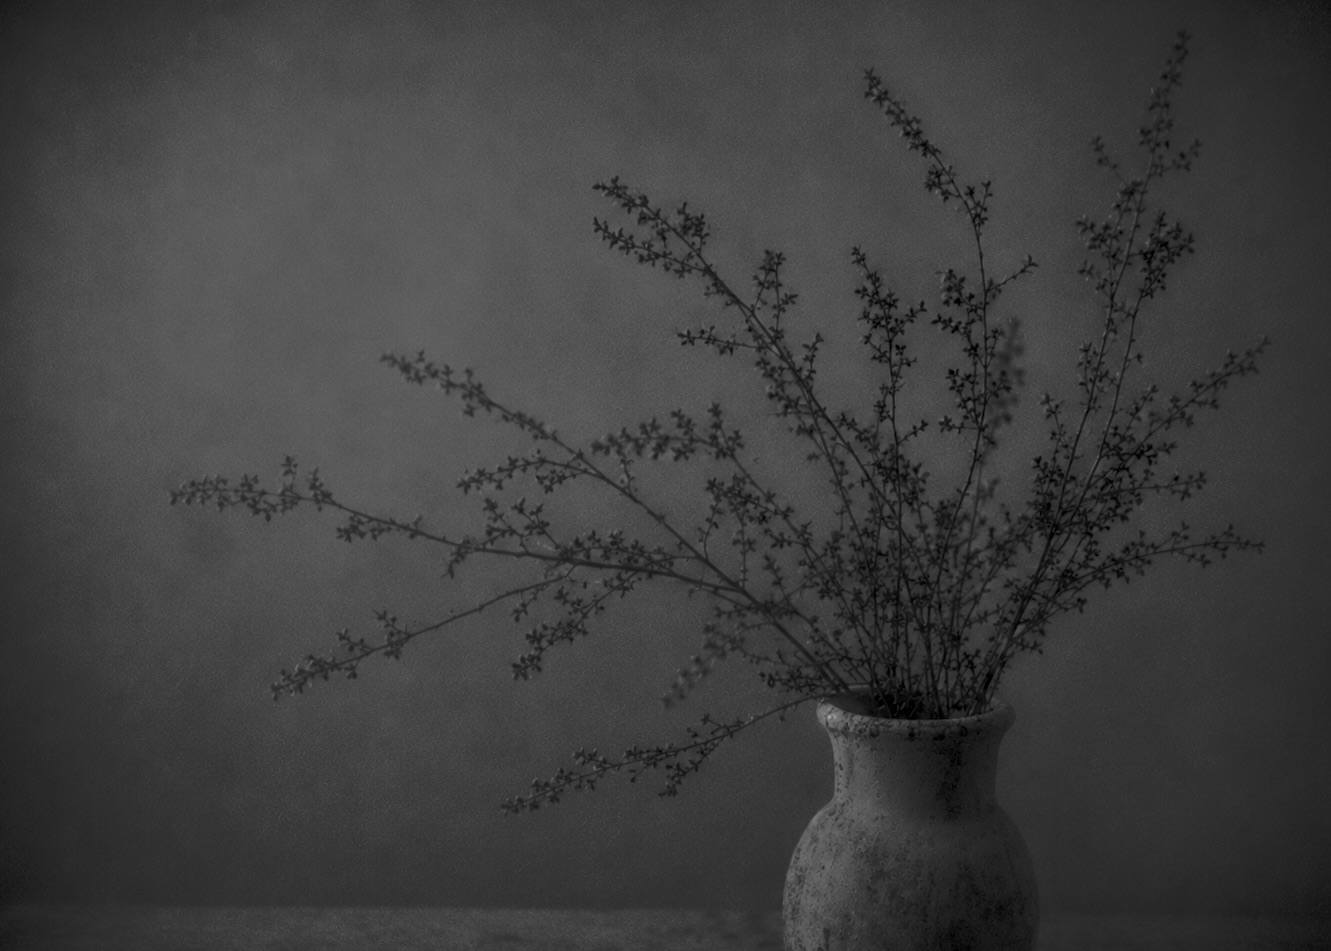
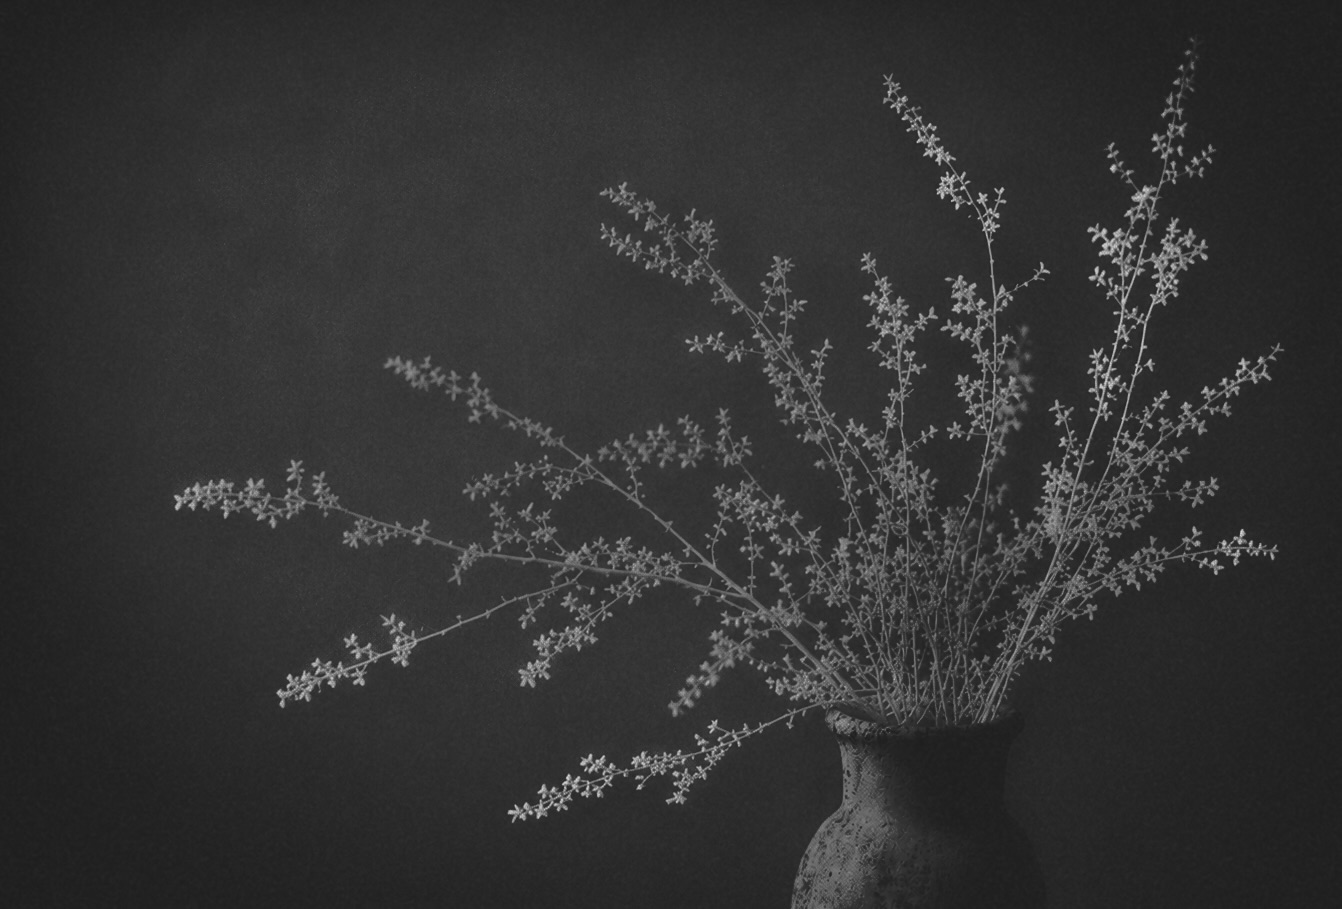
fix: update About section decorative image to new photo\n\nSwap old decorative image with new vase-and-branches photo.

diff --git a/app/page.tsx b/app/page.tsx
@@ -232,7 +232,7 @@ export default function Home() {
         {/* Headline pinned to left gutter, sketch pinned to right gutter — original sizes preserved */}
         <div className="relative py-24 md:min-h-screen" style={{ zIndex: 1 }}>
           <img
-            src="/about-sketch.png"
+            src="/about-bg.jpg"
             alt=""
             aria-hidden="true"
             className="pointer-events-none select-none absolute"
